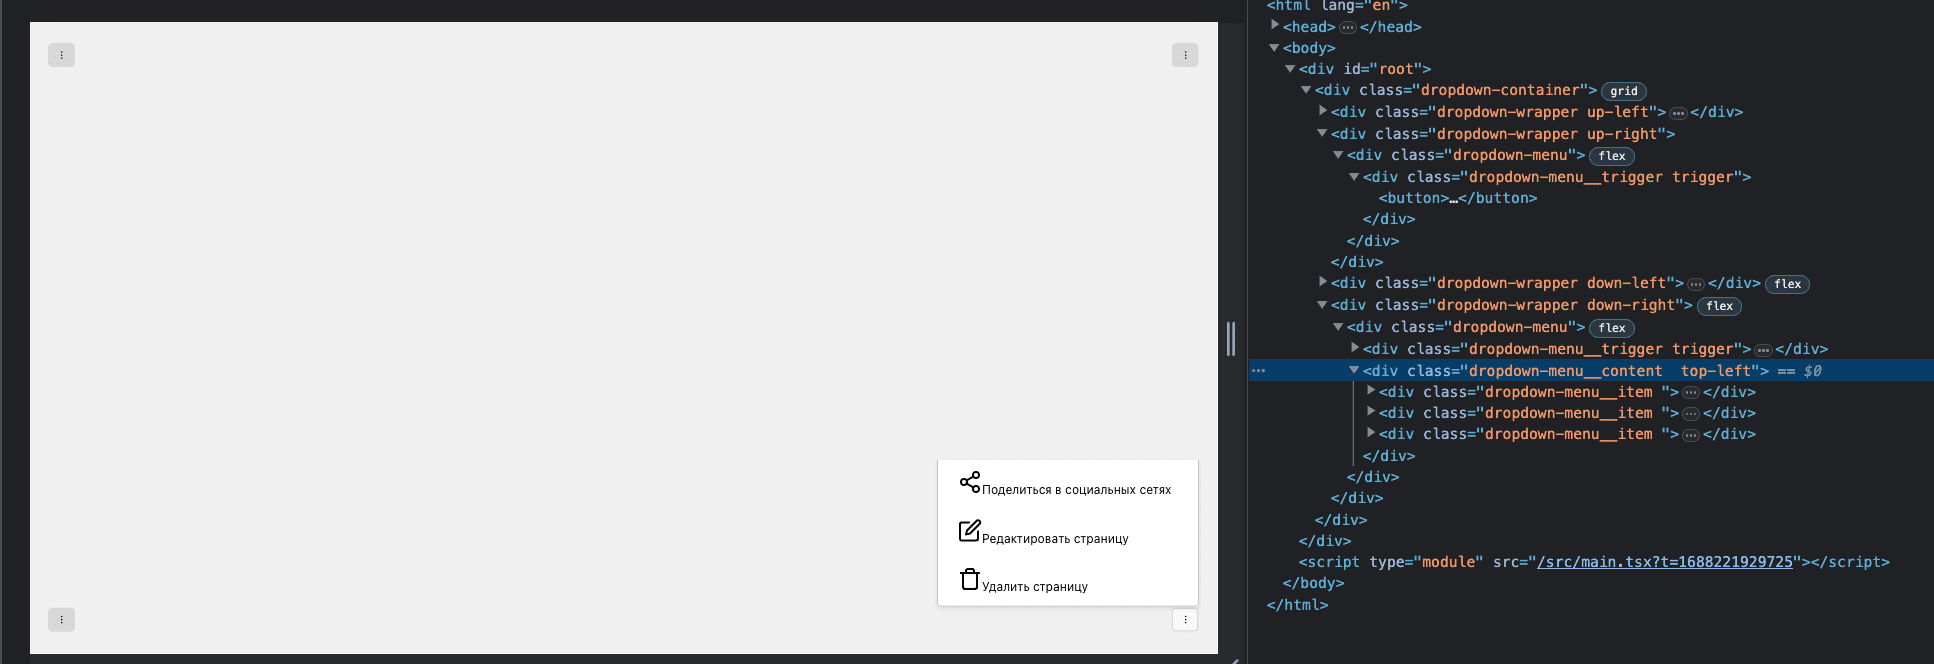
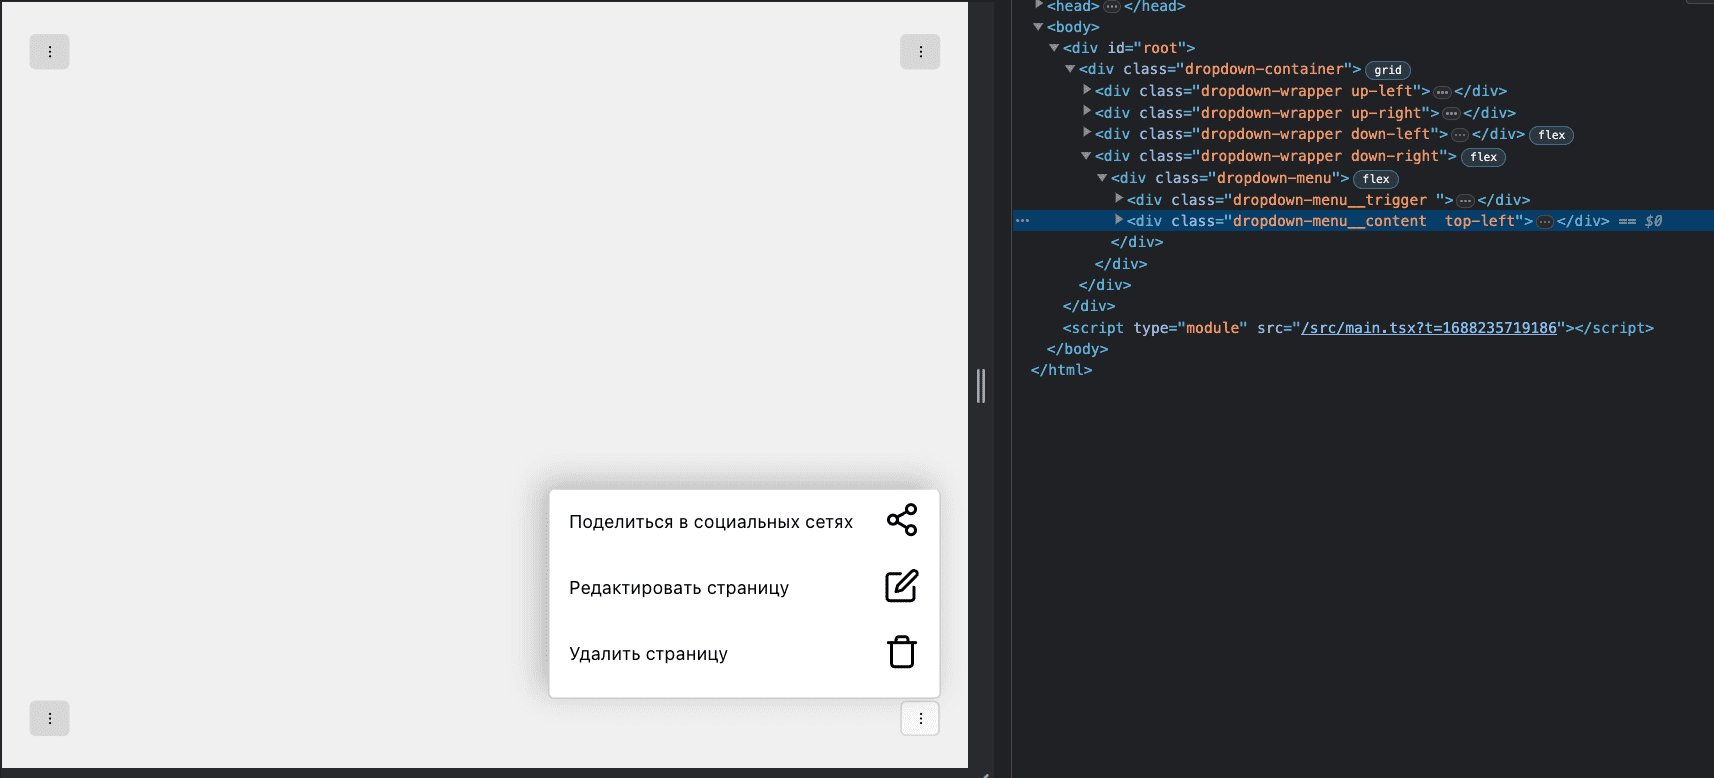
good fix on small screens

Changed region(s): [[0.0, 0.0, 1.0, 1.0]]

diff --git a/src/components/DropdownMenu/DropdownMenu.tsx b/src/components/DropdownMenu/DropdownMenu.tsx
@@ -47,13 +47,21 @@ const DropdownMenu: React.FC<DropdownMenuProps> = ({ trigger, content }) => {
 				setPosition('bottom-left');
 			} else if (hasEnoughSpaceRight) {
 				setPosition('bottom-right');
-			}
+			}else{
+        setPosition('bottom-right');
+      }
 		} else if (hasEnoughSpaceTop) {
 			if (hasEnoughSpaceLeft) {
 				setPosition('top-left');
 			} else if (hasEnoughSpaceRight) {
 				setPosition('top-right');
-			}
+      }else if(left < right){
+        setPosition('top-left');
+      // }else if(left > right){
+      //   setPosition('top-right');
+			}else{
+        setPosition('top-right');
+      }
 		}
 		return {
 			hasEnoughSpaceBottom,
@@ -92,14 +100,7 @@ const DropdownMenu: React.FC<DropdownMenuProps> = ({ trigger, content }) => {
 			{isOpen && (
 				<div className={`dropdown-menu__content  ${position}`} onClick={(e) => e.stopPropagation()}>
 					{content.map((item, index) => (
-						// <div
-						// 	key={index}
-						// 	className='dropdown-menu__item '
-						// 	onClick={() => handleItemClick(item.onClick)}>
-						// 	{item.icon}
-						// 	{item.label}
-						// </div>
-						<button key={index} className='dropdown-menu-item' onClick={item.onClick}>
+						<button key={index} className='dropdown-menu-item' onClick={() => handleItemClick(item.onClick)}>
 							<span className='dropdown-menu-item-label'>{item.label}</span>
 							<span className='dropdown-menu-item-icon'>{item.icon}</span>
 						</button>

diff --git a/src/index.scss b/src/index.scss
@@ -24,13 +24,22 @@ a:hover {
   color: #535bf2;
 }
 
-body {
+body, html {
   margin: 0;
-  height: 100vh;
-  width: 100vw;
-  min-width: 320px;
+  padding: 0;
+  height: 100%;
+  width: 100%;
+  // min-width: 320px;
   min-height: 100vh;
   background-color: #f9f9f9;
+}
+
+#root {
+  height: 100%;
+  // display: flex;
+  // flex-direction: column;
+  // justify-content: space-between;
+  // align-items: center;
 }
 
 h1 {

diff --git a/src/components/DropdownMenu/DropdownMenu.scss b/src/components/DropdownMenu/DropdownMenu.scss
@@ -26,7 +26,7 @@
 		border: 1px solid #ccc;
 		border-top: none;
 		border-radius: 4px;
-		padding: 8px 5px 5px 5px;
+		// padding: 8px 5px 5px 5px;
 	}
 
 	&__item {
@@ -46,8 +46,8 @@
 		flex-wrap: nowrap;
 		justify-content: space-between;
 		align-items: center;
-		margin: 5px;
-		width: calc(100% - 10px);
+    margin: 7px;
+    width: calc(100% - 14px);
 	}
 	&-item-label {
 	}

diff --git a/src/App.scss b/src/App.scss
@@ -66,6 +66,8 @@
 		left: auto;
     box-shadow: -5px 5px 19px rgb(0 0 0 / 25%);
 	}
+
+  // transform: translate3d(calc(100% - 262px), -120%, 0); // когда экран меньше 768px
 	.top-left {
 		transform: translate3d(calc(100% - 260px), -100%, 0);
     box-shadow: -5px -5px 19px rgb(0 0 0 / 25%);
